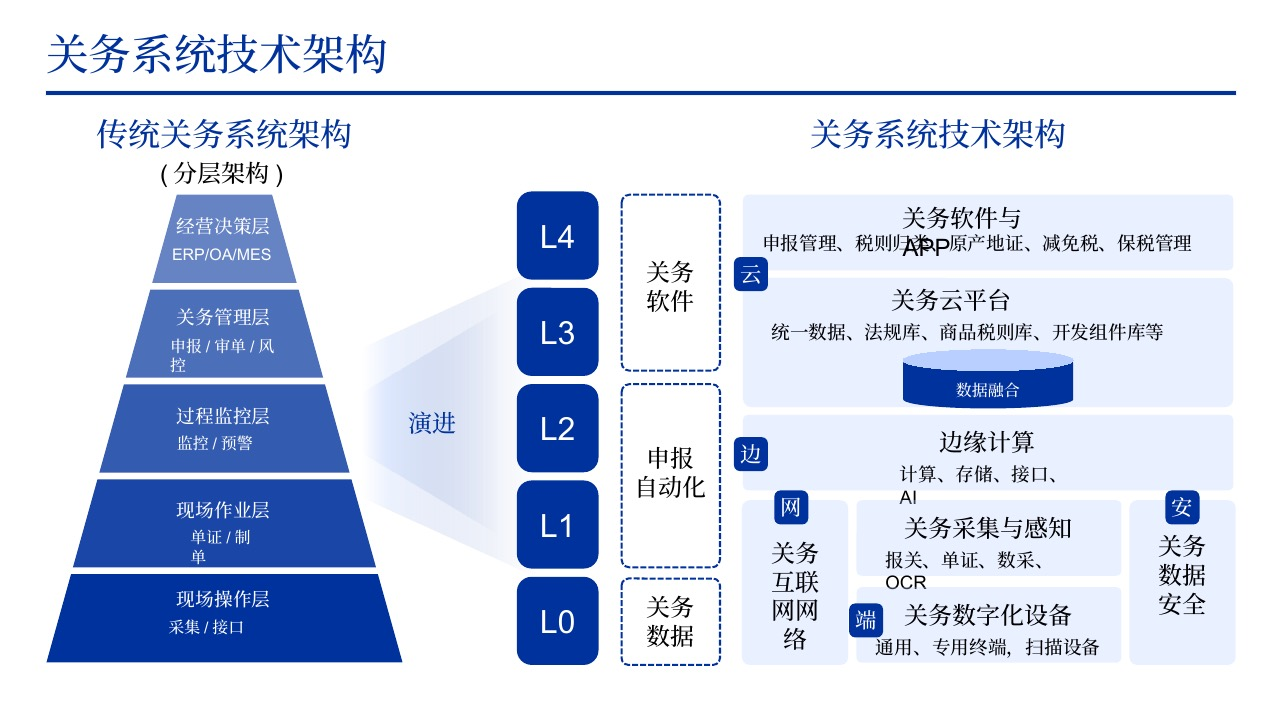
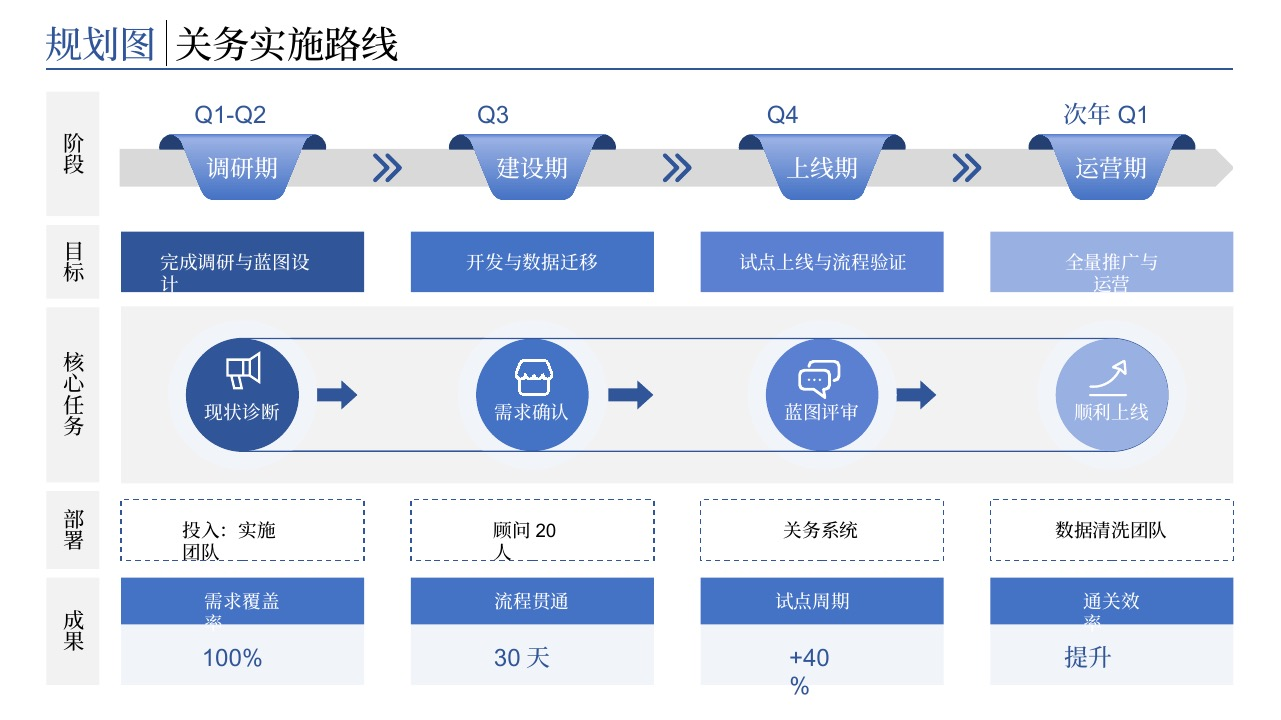
docs: 效果展示扩展为 11 张关务系统页面

diff --git a/README.md b/README.md
@@ -22,15 +22,47 @@
 以下是用本 Skill 生成的实际页面（信息密度高、排版复杂、商务质感）：
 
 <p align="center">
-  <img src="./assets/showcase-1.jpg" alt="效果展示 1 - 战略定位分析" width="720" />
+  <img src="./assets/showcase-1.jpg" alt="效果展示 1 - 关务管理全景" width="720" />
 </p>
 
 <p align="center">
-  <img src="./assets/showcase-2.jpg" alt="效果展示 2 - 价值冰山模型" width="720" />
+  <img src="./assets/showcase-2.jpg" alt="效果展示 2 - 关务实施路线" width="720" />
 </p>
 
 <p align="center">
-  <img src="./assets/showcase-3.jpg" alt="效果展示 3 - 产品化闭环" width="720" />
+  <img src="./assets/showcase-3.jpg" alt="效果展示 3 - 关务行业现状" width="720" />
+</p>
+
+<p align="center">
+  <img src="./assets/showcase-4.jpg" alt="效果展示 4 - 关务系统建设基础" width="720" />
+</p>
+
+<p align="center">
+  <img src="./assets/showcase-5.jpg" alt="效果展示 5 - 关务系统技术架构" width="720" />
+</p>
+
+<p align="center">
+  <img src="./assets/showcase-6.jpg" alt="效果展示 6 - 智慧关务全流程" width="720" />
+</p>
+
+<p align="center">
+  <img src="./assets/showcase-7.jpg" alt="效果展示 7 - 关务数字化核心价值" width="720" />
+</p>
+
+<p align="center">
+  <img src="./assets/showcase-8.jpg" alt="效果展示 8 - 关务合规韧性策略" width="720" />
+</p>
+
+<p align="center">
+  <img src="./assets/showcase-9.jpg" alt="效果展示 9 - 关务管理平台核心能力" width="720" />
+</p>
+
+<p align="center">
+  <img src="./assets/showcase-10.jpg" alt="效果展示 10 - 关务数字化新基建" width="720" />
+</p>
+
+<p align="center">
+  <img src="./assets/showcase-11.jpg" alt="效果展示 11 - 关务系统建设成果" width="720" />
 </p>
 
 ## 使用方法
